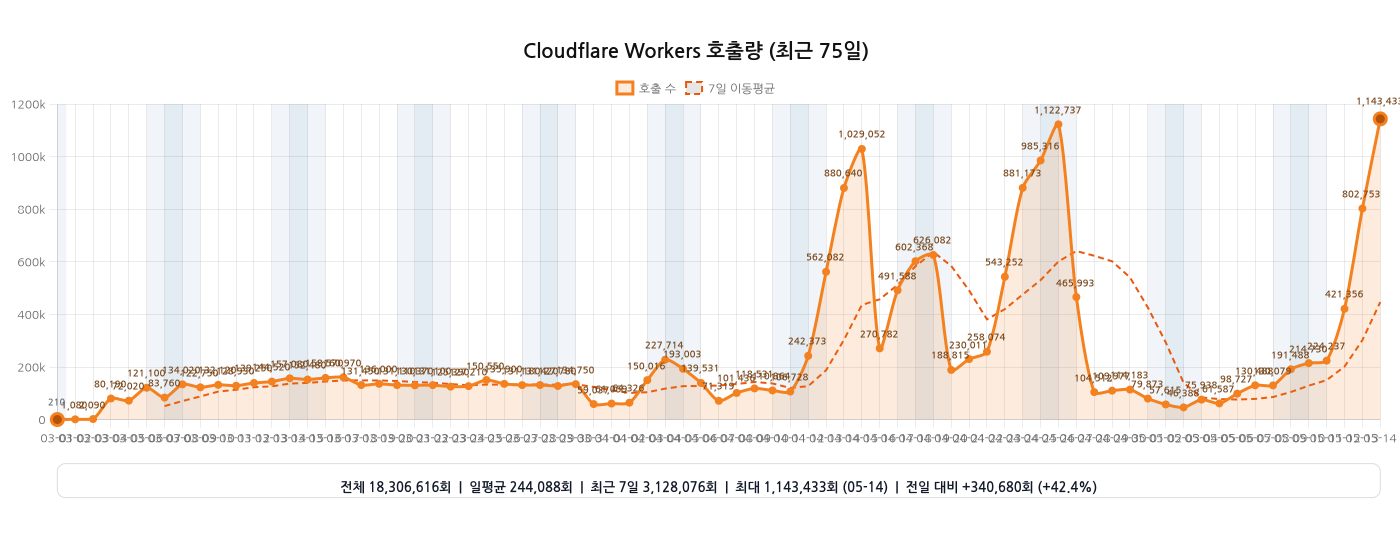
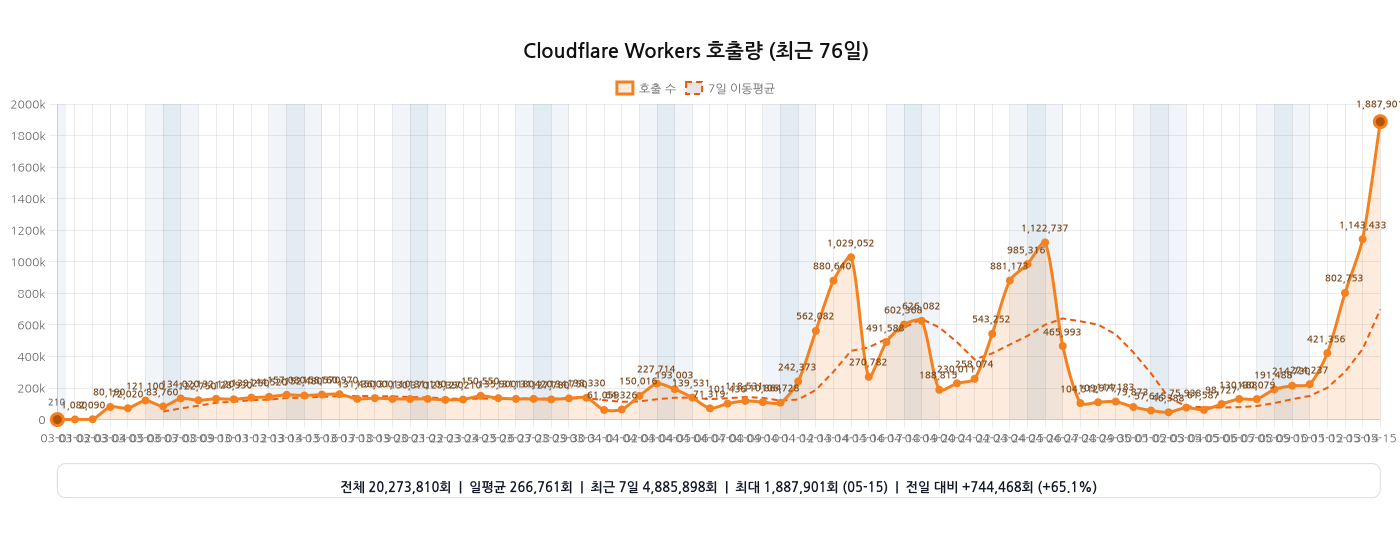
chore: 워커 호출량 그래프 자동 갱신

diff --git a/README.md b/README.md
@@ -18,11 +18,11 @@
 [![Coverage](https://github.com/hmmhmmhm/daiso-mcp/actions/workflows/coverage.yml/badge.svg?branch=main)](https://github.com/hmmhmmhm/daiso-mcp/actions/workflows/coverage.yml)
 
 <!-- WORKERS_INVOCATIONS_CHART:START -->
-<h3>Cloudflare Workers 호출량 (2026-03-01 ~ 2026-05-14, 75일)</h3>
+<h3>Cloudflare Workers 호출량 (2026-03-01 ~ 2026-05-15, 76일)</h3>
 
-<img src="./assets/analytics/workers-invocations.png?v=2026-05-14T16:11:58.039Z" alt="Cloudflare Workers 호출량 그래프 (2026-03-01 ~ 2026-05-14)" width="100%">
+<img src="./assets/analytics/workers-invocations.png?v=2026-05-15T16:09:06.213Z" alt="Cloudflare Workers 호출량 그래프 (2026-03-01 ~ 2026-05-15)" width="100%">
 
-<sub>기준 워커: <code>daiso-mcp</code> · 마지막 갱신: 2026-05-15 01:11 KST</sub>
+<sub>기준 워커: <code>daiso-mcp</code> · 마지막 갱신: 2026-05-16 01:09 KST</sub>
 
 <!-- WORKERS_INVOCATIONS_CHART:END -->
 
